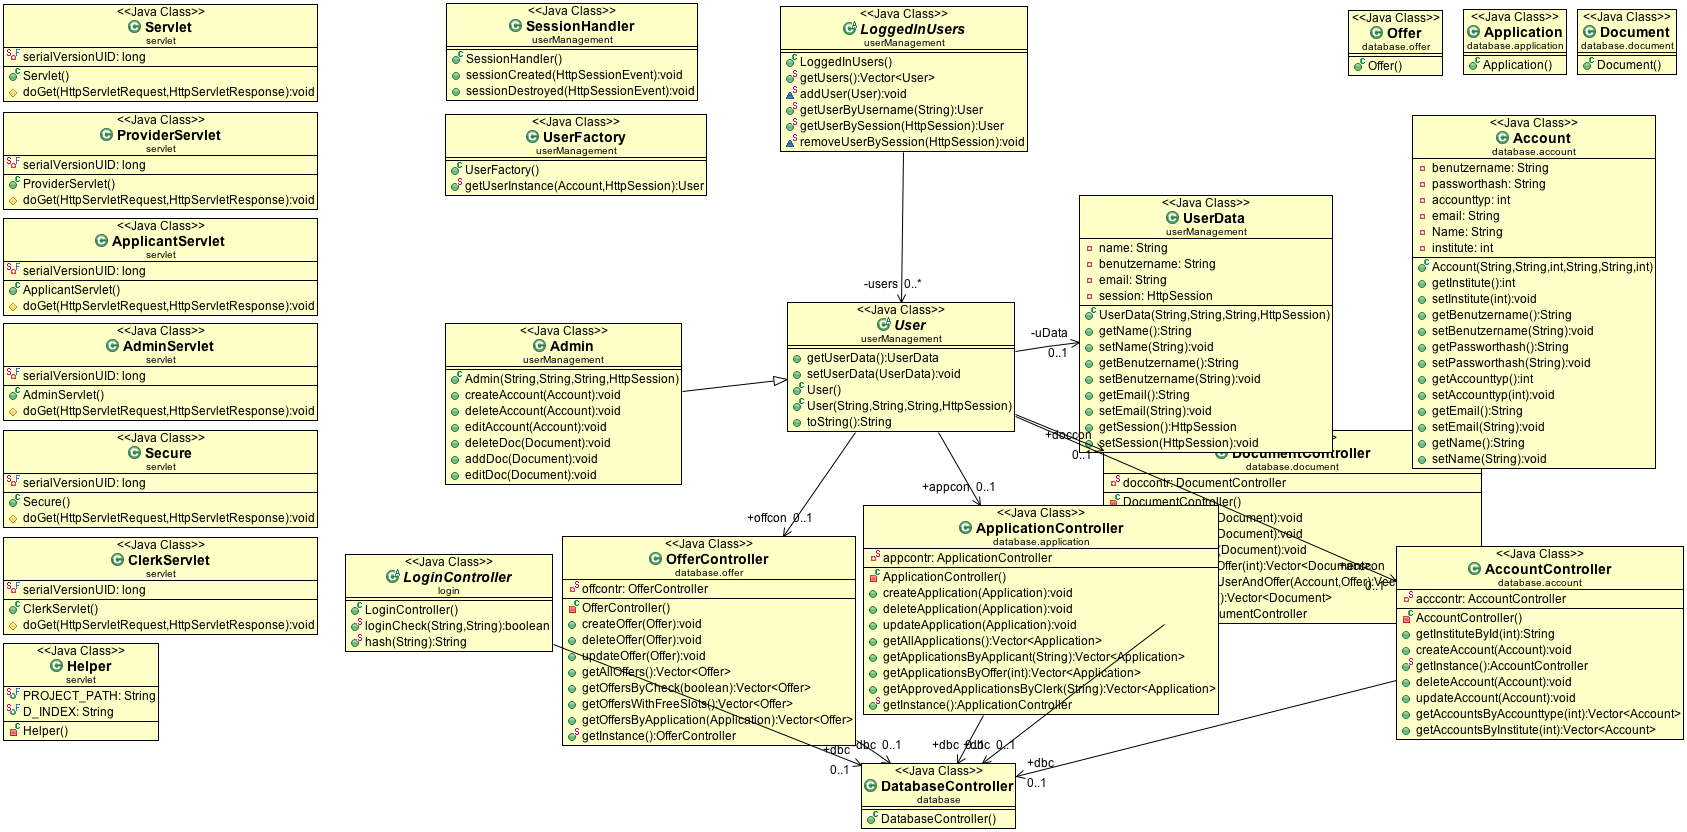
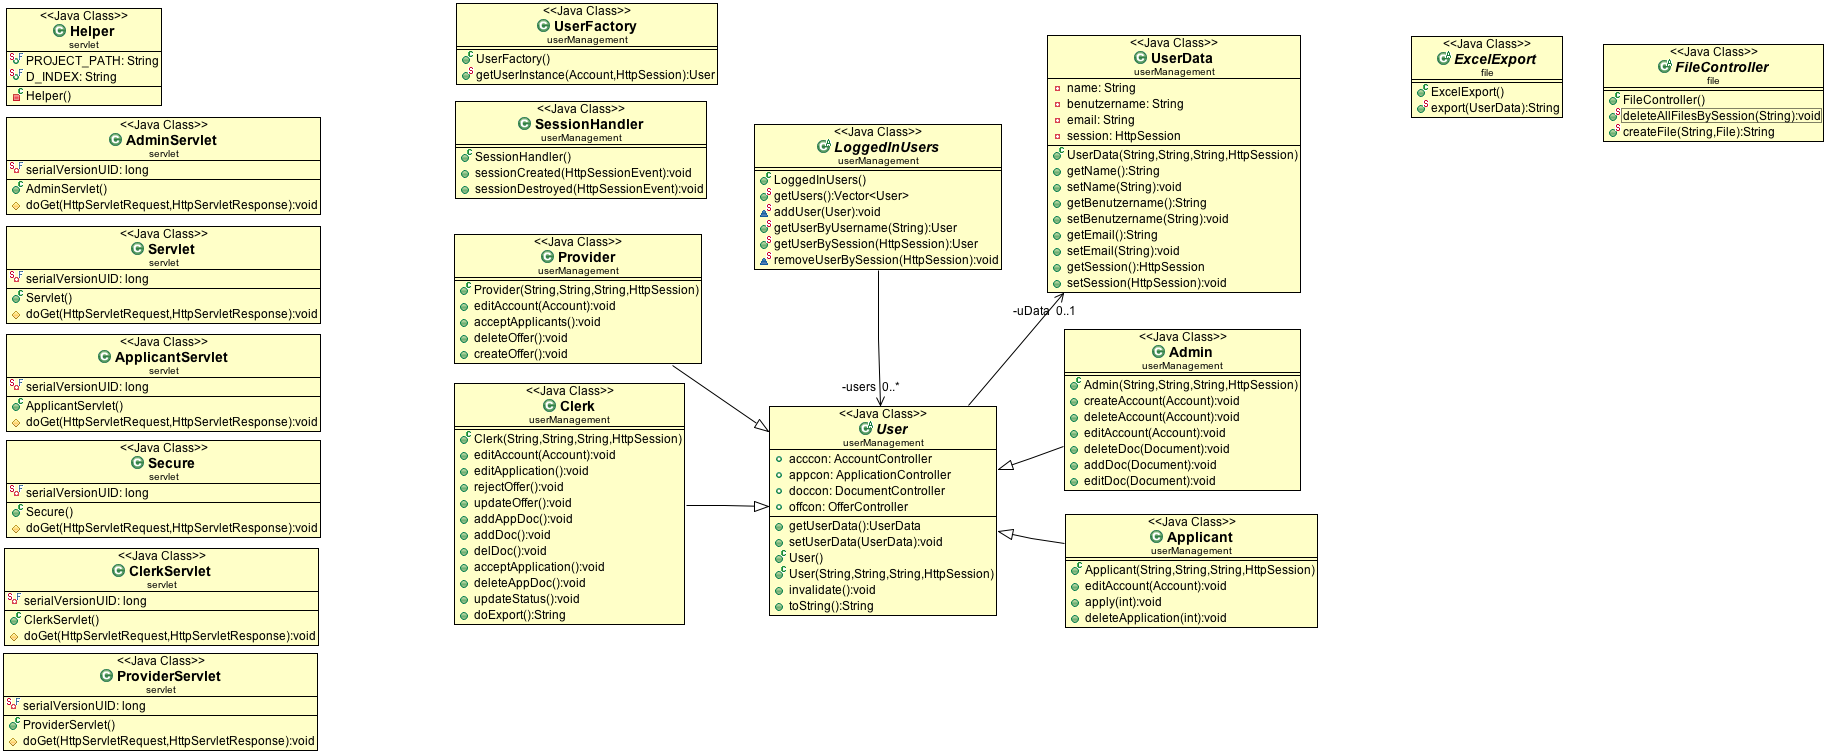
zwischenstand klassendiagramm filecontroller geändert

diff --git a/src/file/FileController.java b/src/file/FileController.java
@@ -12,9 +12,6 @@ import java.io.File;
 
 public abstract class FileController {
 
-	private static void deleteFilesBySession(String sessionId) {
-
-	}
 
 	/**
 	 * Diese Methode entfernt alle erstellten Dateien die zum Download zur
@@ -25,7 +22,7 @@ public abstract class FileController {
 	 *            Download-Dateien. Dabei besteht die sessionId aus einem Teil
 	 *            des Session-Namens und einem zufaellig generierten Teil.
 	 */
-	private static void deleteAllFilesBySession(String sessionId) {
+	public static void deleteAllFilesBySession(String sessionId) {
 
 	}
 
@@ -42,7 +39,7 @@ public abstract class FileController {
 	 *            Donwload verfuegbar sein soll.
 	 * @return Zurueckgegeben wird der Pfad des erstellten Download-Datei.
 	 */
-	private static String createFile(String sessionId, File file) {
+	public static String createFile(String sessionId, File file) {
 		return null;
 
 	}
